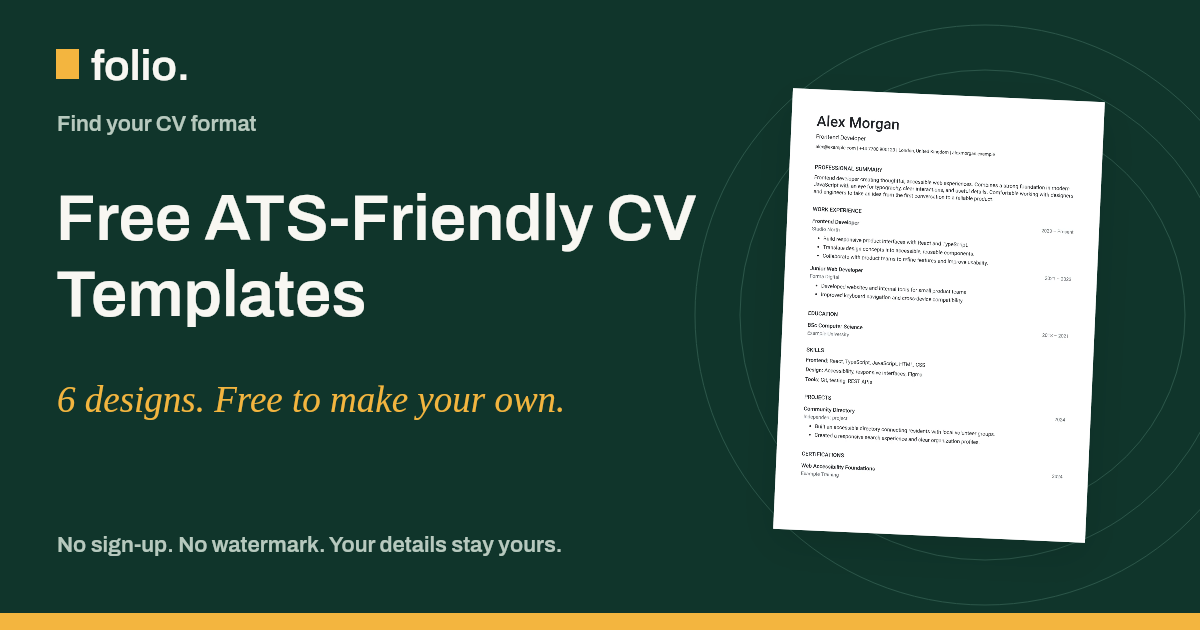
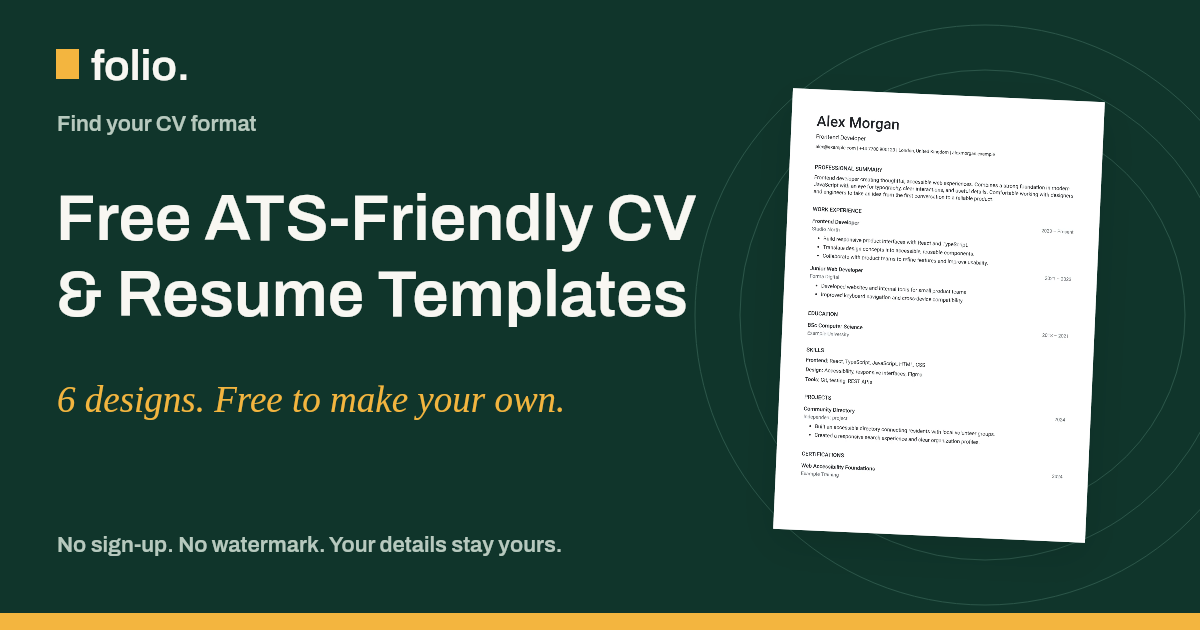
nn

Changed region(s): [[0.0308, 0.4222, 0.5858, 0.5127]]

diff --git a/src/lib/guides-country.ts b/src/lib/guides-country.ts
@@ -58,11 +58,11 @@ export const countryGuides: Guide[] = [
   {
     slug: "uk-cv-format", title: "How to write a CV for jobs in the UK", published: "2026-11-09",
     seoTitle: "UK CV Format: How to Write a CV for Jobs in the UK",
-    description: "Write a CV for UK jobs: the standard British CV format, what to include and leave out, length, right-to-work details, and student CVs with GCSEs and A levels.",
+    description: "Write a CV for UK jobs: the standard British CV format and a free template, what to leave out, length, right to work, and student CVs with GCSEs and A levels.",
     category: "Applying by country",
     intro: "A UK CV is a short, factual document, usually two A4 pages, that introduces your experience and makes it easy for an employer to shortlist you. British conventions are simple once you know them: no photo, no personal details beyond how to contact you, and a clear focus on evidence.",
     image: { kind: "example", id: "teacher", alt: "UK teacher CV example with QTS in the professional title, a short personal statement, and teaching roles listed most recent first", caption: "A fictional UK teacher CV from our CV examples, in the Classic template." },
-    tool: { href: "/editor/", label: "Start your UK CV", text: "Two A4 pages, British spelling, and no photo needed. Build your UK CV in the free editor." },
+    tool: { href: "/editor/", label: "Use the free UK CV maker", text: "Two A4 pages, British spelling, and no photo needed. Build your UK CV for free, with no sign-up or watermark." },
     sections: [
       { id: "uk-cv-structure", heading: "The standard UK CV structure", paragraphs: [
         "Most UK CVs follow the same order. Start with your name and contact details, followed by a personal statement, also called a profile. Then list your work experience, most recent first, followed by education, skills, and any other relevant sections such as certifications, volunteering, or languages.",
@@ -86,9 +86,13 @@ export const countryGuides: Guide[] = [
         "If your education or recent experience abroad might lead an employer to wonder whether you need a visa, a short line can answer the question early, for example “Full right to work in the UK” in your contact details or personal statement.",
         "If you need sponsorship, check whether the employer is a licensed sponsor before applying, and answer the application form’s questions accurately.",
       ] },
-      { id: "school-leavers-and-students", heading: "UK CVs for school leavers and students", paragraphs: [
+      { id: "school-leavers-and-students", heading: "UK CV format for students and school leavers", paragraphs: [
         "School leavers can list GCSEs and A levels, or Scottish Highers, BTECs, or T Levels, with grades, most recent first. If you have many GCSEs, summarise them on one line, for example “9 GCSEs at grades 9–5, including English and Maths”. University students and graduates can give their degree title, institution, dates, and expected or achieved classification, such as a 2:1.",
         "Part-time jobs, volunteering, the Duke of Edinburgh’s Award, sports clubs, and society roles all count as evidence. Our guide to [writing your first CV with no experience](/tips/your-first-cv/) shows how to describe them, and the [CV maker for students](/cv-maker-for-students/) starts you with an education-first layout.",
+      ] },
+      { id: "uk-cv-template", heading: "A free UK CV template to start from", paragraphs: [
+        "Any clear layout without a photo suits UK applications. In Folio’s free CV maker, the [Classic](/templates/classic/) and [Professional](/templates/professional/) templates give a traditional British look, and [Clarity](/templates/clarity/) keeps everything in one plain column for online application systems. All of them download as A4 PDFs, the standard size for UK jobs.",
+        "Start in the [free CV maker](/editor/), leave the photo out, and use British spelling. You can switch templates at any time without retyping, so it is easy to compare a traditional British CV template with a more modern one.",
       ] },
       { id: "application-forms", heading: "Application forms and supporting statements", paragraphs: [
         "Many UK public sector employers, including the NHS, local councils, and the civil service, use online application forms instead of, or as well as, a CV. These often include a supporting statement where you explain how you meet each point of the person specification. The civil service may also ask for examples against the behaviours in its Success Profiles framework.",
@@ -109,11 +113,11 @@ export const countryGuides: Guide[] = [
   {
     slug: "us-resume-format", title: "How to write an American resume", published: "2026-11-09",
     seoTitle: "US Resume Format: How to Write an American Resume",
-    description: "How to write a resume for jobs in the United States: the standard US resume format, ideal length, what to leave out, and tips for international applicants.",
+    description: "How to write a resume for US jobs: the American resume format and a free template, length, what to leave out, and tips for students and international applicants.",
     category: "Applying by country",
     intro: "An American resume is a concise, achievement-focused summary of your experience, usually one page early in your career and up to two pages for most experienced candidates. US recruiters expect quick evidence of results, a clean reverse-chronological layout, and no personal details beyond how to reach you.",
     image: { kind: "template", id: "clarity", alt: "Clarity CV template: a plain single-column layout with standard headings and no graphics, suited to US resume conventions", caption: "Clarity template, fictional sample content. Plain structure, no graphics, standard headings." },
-    tool: { href: "/resume-keyword-checker/", label: "Check your resume against a job", text: "US job adverts are often detailed and keyword-heavy. Compare your resume with the description to see what you already cover." },
+    tool: { href: "/editor/", label: "Build your US resume free", text: "A free resume builder for US jobs: one clear page, no photo, no sign-up, and no watermark. Then compare it with the job in the [resume keyword checker](/resume-keyword-checker/)." },
     sections: [
       { id: "us-resume-structure", heading: "The standard US resume format", paragraphs: [
         "The reverse-chronological resume is the most common format in the United States. It starts with your contact details and a short professional summary, then lists work experience from most recent to oldest, followed by education and skills.",
@@ -129,6 +133,10 @@ export const countryGuides: Guide[] = [
         "One page is the usual expectation for students, recent graduates, and people with a few years of experience. Two pages are common for experienced professionals. Federal government jobs advertised on USAJOBS have their own resume requirements, including what each role must show, so follow the job announcement exactly.",
         "The standard paper size in the US is Letter (8.5 × 11 inches) rather than A4. Folio currently downloads CVs as A4 PDFs. Most resumes are read on screen, where the difference is rarely noticeable, but if an employer asks for Letter size or you plan to print, check the layout first.",
       ] },
+      { id: "us-resume-for-students", heading: "US resume format for students", paragraphs: [
+        "Students and recent graduates in the US usually use a one-page resume with education near the top. List your school, your degree or expected degree, and your graduation month and year. Add your GPA if it is strong, followed by relevant coursework, honors, or a capstone project.",
+        "Campus jobs, internships, research assistant roles, volunteering, and leadership in student organizations all count as experience. Describe them with the same action-and-result bullets as any job. Our guides to [writing an internship CV](/tips/internship-cv/) and [describing projects](/tips/projects-on-a-cv/) show how.",
+      ], bullets: ["One page, with education first.", "Expected graduation month and year.", "GPA only when it strengthens the application.", "Relevant coursework, projects, or a capstone.", "Campus jobs, internships, and student organizations."] },
       { id: "achievements", heading: "Lead with achievements and numbers", paragraphs: [
         "US resumes tend to be direct about results. Start each bullet with a strong verb, say what you did, and add the outcome: how much, how many, how fast, or what changed. Use figures you can explain in an interview, and describe your share of team results honestly.",
         "If you cannot measure a result, describe its scope instead: the size of the team, the number of customers, the budget you managed, or the systems you worked with. Our guide to [describing work experience](/tips/describe-your-experience/) has more examples.",
@@ -140,6 +148,10 @@ export const countryGuides: Guide[] = [
       { id: "international-applicants", heading: "Applying from outside the US", paragraphs: [
         "If you are applying from another country, convert your document to US conventions: American spelling, one or two pages, and job titles a US reader will recognise, while staying accurate to the role you held. Give context for employers that a US reader may not know, for example “Northbridge Bank, a national retail bank with 3,000 staff”, and describe qualifications in terms of their closest US equivalent.",
         "Be clear about work authorization. If you are a US citizen or permanent resident, or already hold a visa that allows you to work, you can say so briefly. If you will need sponsorship, answer the employer’s questions accurately in the application form.",
+      ] },
+      { id: "us-resume-template", heading: "A free American resume template", paragraphs: [
+        "For US jobs, choose a simple layout that fits on one page. [Clarity](/templates/clarity/) and [Linear](/templates/linear/) use plain, single-column structures that read well on screen and in applicant tracking systems, and [Compact](/templates/compact/) fits more onto one page. Leave the photo out.",
+        "Build your resume in the [free CV maker](/editor/), which works as a free resume builder for US jobs with no sign-up or watermark. It downloads A4 PDFs; most US applications are read on screen, but check the layout if an employer asks for Letter size.",
       ] },
       { id: "summary-or-objective", heading: "Professional summary or resume objective?", paragraphs: [
         "A professional summary works best when you have relevant experience to sum up. A resume objective, which states the role you want and what you bring to it, is more useful for students, recent graduates, and career changers. Either way, keep it short and specific to the job.",
@@ -157,7 +169,7 @@ export const countryGuides: Guide[] = [
   {
     slug: "canadian-resume-format", title: "How to write a Canadian resume", published: "2026-11-09",
     seoTitle: "Canadian Resume Format: How to Write a Resume for Canada",
-    description: "Write a resume for jobs in Canada: Canadian resume format and length, what to leave out, bilingual skills, and advice for newcomers with international experience.",
+    description: "Write a resume for jobs in Canada: the Canadian resume format, length, and a free template, what to leave out, bilingual skills, and advice for newcomers.",
     category: "Applying by country",
     intro: "A Canadian resume is a focused, one- or two-page document that shows your experience and results in reverse chronological order. Its conventions are close to the American resume, with a few Canadian details: no personal information such as age or a photo, consistent Canadian spelling, and room for language skills and volunteer work.",
     image: { kind: "template", id: "professional", alt: "Professional CV template: a formal single-column layout with serif headings and fine rules, suited to a Canadian resume", caption: "Professional template, fictional sample content." },
@@ -188,7 +200,11 @@ export const countryGuides: Guide[] = [
         { heading: "Translate your qualifications", paragraphs: ["If you have had your education assessed, for example through an educational credential assessment, give the Canadian equivalent next to your qualification. For regulated professions such as nursing, engineering, or teaching, state where you are in the provincial licensing process."] },
         { heading: "Show local connections where you have them", paragraphs: ["Canadian volunteering, courses, and bridging programs all help an employer picture you in the role. If you have an open work permit or permanent residence, you can mention it briefly in your summary or contact details."] },
       ] },
-      { id: "no-experience", heading: "A Canadian resume with no experience", paragraphs: [
+      { id: "canadian-resume-template", heading: "A free Canadian resume template", paragraphs: [
+        "A clean, single-column layout suits Canadian applications, including for newcomers adapting an international CV. [Linear](/templates/linear/), [Clarity](/templates/clarity/), and [Professional](/templates/professional/) keep the structure plain and leave out the photo.",
+        "Use the [free CV maker](/editor/) as a Canadian resume builder: add your English and French levels in the Languages section, and rename the extra section to Volunteering for Canadian volunteer work. It downloads A4 PDFs, which display normally on screen; check the layout if an employer asks for Letter size.",
+      ] },
+      { id: "no-experience", heading: "A resume for jobs in Canada with no experience", paragraphs: [
         "If you are a student or new to the Canadian job market, lead with education, projects, volunteer work, and transferable skills. Part-time jobs, co-op placements, and community involvement all count.",
         "Our guide to [writing your first CV](/tips/your-first-cv/) explains how to describe them, and the [CV maker for students](/cv-maker-for-students/) starts you with an education-first layout.",
       ] },
@@ -204,7 +220,7 @@ export const countryGuides: Guide[] = [
   {
     slug: "australian-resume-format", title: "How to create an Australian resume", published: "2026-11-09",
     seoTitle: "Australian Resume Format & Writing Guide",
-    description: "Write a resume for Australian jobs: the standard format and length, referees, work rights, key selection criteria, licences, and student resumes.",
+    description: "Write a resume for Australian jobs: the standard format and a free template, length, referees, work rights, selection criteria, licences, and tips for students.",
     category: "Applying by country",
     intro: "Australian resumes tend to be a little longer and more detailed than American ones. Two to three pages is common, referees often appear at the end, and employers appreciate a clear statement of your work rights. The essentials are the same everywhere: relevant experience, clear results, and a layout that is easy to scan.",
     image: { kind: "template", id: "regent", alt: "Regent CV template: a single-column layout with a serif nameplate and a framed contact line", caption: "Regent template, fictional sample content." },
@@ -238,8 +254,12 @@ export const countryGuides: Guide[] = [
       { id: "licences-and-checks", heading: "Include licences and checks relevant to the role", paragraphs: [
         "Many Australian jobs require specific licences or checks. List the ones you hold and any expiry dates, for example a driver licence, a forklift licence, a Working with Children Check, a National Police Check, a construction White Card, or a Responsible Service of Alcohol (RSA) certificate for hospitality work. Folio’s Certifications section is the right place for them.",
       ] },
-      { id: "no-experience", heading: "An Australian resume with no experience", paragraphs: [
-        "Students and school leavers can lead with education, then part-time and casual work, volunteering, and school or university activities. Casual roles in retail and hospitality are valuable evidence of reliability and customer service.",
+      { id: "australian-resume-template", heading: "A free Australian resume template", paragraphs: [
+        "Australian resumes have room for more detail, so a layout with clear section headings helps a reader find your key skills and referees quickly. [Professional](/templates/professional/), [Regent](/templates/regent/), and [Clarity](/templates/clarity/) work well, and all download as A4 PDFs, the standard size in Australia.",
+        "In the [free CV maker](/editor/), use the Certifications section for licences and checks, and rename the Additional information section to Referees. It works as a free Australian resume builder, with no sign-up or watermark.",
+      ] },
+      { id: "no-experience", heading: "A resume for Australian jobs with no experience", paragraphs: [
+        "The Australian CV format for students follows the same structure with education first, then part-time and casual work, volunteering, and school or university activities. Casual roles in retail and hospitality are valuable evidence of reliability and customer service.",
         "See [how to write your first CV](/tips/your-first-cv/), and start with an education-first layout in the [CV maker for students](/cv-maker-for-students/).",
       ] },
     ],

diff --git a/src/lib/cv-examples.ts b/src/lib/cv-examples.ts
@@ -108,7 +108,7 @@ export const cvExamples: CVExample[] = [
   {
     slug: "software-developer", job: "Software developer", category: "Technology", template: "tech",
     seoTitle: "Software Developer & Software Engineer CV Example",
-    description: "A software developer and software engineer CV example with a grouped tech stack, results-led bullet points, and a clear profile. Edit it free as a resume or CV.",
+    description: "A software developer and software engineer CV example with a grouped tech stack and results-led bullet points. Edit it in the free resume builder.",
     intro: "Whether the role is called software developer or software engineer, engineering managers scan the CV for three things: the technologies you use, what you built with them, and how your work helped the team or product. This example groups skills by area and describes each role through shipped work.",
     person: { name: "Sam Okafor", headline: "Software Developer", location: "Manchester, United Kingdom", phone: "+44 7700 900103" },
     summary: "Software developer with five years of experience building web applications in TypeScript, React, and Node.js. Turns unclear requirements into reliable features, writes tests that catch real problems, and enjoys improving performance. Currently building a platform used by thousands of small businesses.",
@@ -149,7 +149,7 @@ export const cvExamples: CVExample[] = [
   {
     slug: "customer-service", job: "Customer service", category: "Customer service", template: "modern",
     seoTitle: "Customer Service CV Example & Resume Template",
-    description: "A customer service CV example with a profile, achievement-led bullet points, and key skills. Adapt it for call centre, retail, or online support roles.",
+    description: "A customer service CV example with achievement-led bullet points and key skills. Edit it in the free resume builder for call centre, retail, or support roles.",
     intro: "Customer service managers look for evidence that you stay patient, solve problems, and meet service targets. This example uses specific measures, such as satisfaction scores and resolution rates, to turn everyday tasks into achievements.",
     person: { name: "Chloe Bennett", headline: "Customer Service Advisor", location: "Glasgow, United Kingdom", phone: "+44 7700 900104" },
     summary: "Customer service advisor with four years of experience in contact centre and live chat support. Resolves billing and account queries on first contact, stays calm with frustrated customers, and consistently meets quality and response targets. Looking to move into a team leader role.",
@@ -266,8 +266,8 @@ export const cvExamples: CVExample[] = [
   },
   {
     slug: "administrator", job: "Administrator", category: "Office & admin", template: "ledger",
-    seoTitle: "Administrator CV Example — Free Template & Tips",
-    description: "An administrator CV example with an organised profile, office experience, and in-demand skills. Use it for admin assistant or office roles and download a PDF.",
+    seoTitle: "Administrative Assistant & Administrator CV Example",
+    description: "An administrative assistant and administrator CV example with an organised profile, office experience, and in-demand skills. Edit it free as a template.",
     intro: "Administrators keep an organisation running, so hiring managers look for organisation, accuracy, and confidence with systems. This example shows the range of tasks you handle and how you made processes faster or more reliable.",
     person: { name: "Hannah Kowalski", headline: "Office Administrator", location: "Nottingham, United Kingdom", phone: "+44 7700 900107" },
     summary: "Office administrator with five years of experience supporting busy teams in property and legal services. Manages diaries, invoices, and records accurately, keeps office systems running smoothly, and finds simple ways to save colleagues time. Advanced Microsoft 365 user.",
@@ -506,8 +506,8 @@ export const cvExamples: CVExample[] = [
   },
   {
     slug: "student", job: "Student", category: "Students & graduates", template: "student",
-    seoTitle: "Student CV Example — Free Template for No Experience",
-    description: "A student CV example for school leavers, students, and graduates with little work experience. See profiles, bullet points, and skills, then edit it free.",
+    seoTitle: "Student & Graduate CV Example (No Experience Needed)",
+    description: "A student and graduate CV example for school leavers, students, and fresh graduates with little work experience. See profiles, bullet points, and skills.",
     intro: "A student CV has to work with what you have: education, part-time work, projects, and activities. This example leads with a degree, then uses a part-time job, a society role, and a university project as real evidence of reliability, organisation, and teamwork.",
     person: { name: "Ellie Harper", headline: "Business Management Student", location: "Sheffield, United Kingdom", phone: "+44 7700 900113" },
     sectionOrder: ["summary", "education", "experience", "projects", "skills", "languages", "certifications", "additional"],
@@ -634,9 +634,9 @@ export const cvExamples: CVExample[] = [
   },
   {
     slug: "frontend-developer", job: "Frontend developer", category: "Technology", template: "monogram",
-    seoTitle: "Frontend Developer CV Example — Free Resume Template",
-    description: "A frontend developer CV example with React, TypeScript, accessibility, and performance results, plus three profile examples. Edit it free and download a PDF.",
-    intro: "A frontend CV should show the stack you build with and the quality of what you ship: accessible, fast, well-tested interfaces. This example pairs a grouped skills section with bullets that name concrete improvements in performance and accessibility.",
+    seoTitle: "Frontend & Web Developer CV Example — Free Template",
+    description: "A frontend and web developer CV example with React, TypeScript, accessibility, and performance results, plus three profile examples. Edit it free.",
+    intro: "A frontend or web developer CV should show the stack you build with and the quality of what you ship: accessible, fast, well-tested interfaces. This example pairs a grouped skills section with bullets that name concrete improvements in performance and accessibility.",
     person: { name: "Arjun Mehta", headline: "Frontend Developer", location: "Reading, United Kingdom", phone: "+44 7700 900116", website: "arjunmehta.example" },
     summary: "Frontend developer with four years of experience building accessible, responsive interfaces in React and TypeScript. Works closely with designers to turn Figma files into reusable components, and cares about performance and keyboard accessibility. Currently maintaining the design system for a SaaS product.",
     experience: [

diff --git a/src/app/resume-keyword-checker/page.tsx b/src/app/resume-keyword-checker/page.tsx
@@ -8,7 +8,7 @@ export const metadata = pageMetadata({ title: page.title, description: page.desc
 
 export default function KeywordCheckerPage() {
   return <ToolPage path={page.path} heading="Free resume keyword checker."
-    intro="Compare your resume or CV with a job description and see which keywords you already cover and which are missing. It runs entirely in your browser, so your CV and the advert are never uploaded."
+    intro="This free resume keyword matching tool compares your resume or CV with a job description and shows which keywords you already cover and which are missing. It runs entirely in your browser, so your CV and the advert are never uploaded."
     points={["Results as you type", "Reads PDF and DOCX files", "No sign-up", "Nothing uploaded"]}
     featureList={["Keyword and phrase extraction from job descriptions", "Matching and missing keywords with counts", "Share of key terms found", "Reads text from PDF and DOCX files on your device", "Uses the CV open in Folio’s editor"]}
     guide={[
@@ -20,6 +20,16 @@ export default function KeywordCheckerPage() {
       { id: "keywords-and-ats", heading: "Keywords and applicant tracking systems", paragraphs: [
         "Many employers use an applicant tracking system (ATS) to manage applications, and recruiters often search it for specific skills, tools, or qualifications. Using the advert’s own wording for things you can genuinely do makes your CV easier to find and easier to read.",
         "No outside tool can see how a particular employer’s system is set up, so this checker does not give an “ATS score”. For format advice that applies to most systems, read [how to make your CV ATS-friendly](/tips/ats-friendly-cv/), and compare the [ATS-friendly templates](/templates/category/ats-friendly/).",
+      ] },
+      { id: "check-ats-compatibility", heading: "How to check your resume’s ATS compatibility", paragraphs: [
+        "No free tool can run your resume through a particular employer’s applicant tracking system. You can still check the things that most often cause problems, in a few minutes, and keywords are only one of them.",
+        "Folio’s [ATS-friendly templates](/templates/category/ats-friendly/) cover the layout side, and the [ATS-friendly CV guide](/tips/ats-friendly-cv/) explains each point in more detail.",
+      ], bullets: [
+        "Copy and paste test: select all the text in your PDF and paste it into a plain text editor. If it reads in a sensible order, it can be parsed.",
+        "Use standard section headings such as Work experience, Education, and Skills.",
+        "Keep your name and contact details in the body of the page, not only in a header.",
+        "Send the file type the employer asks for, such as Word instead of PDF.",
+        "Compare keywords with this checker, and add missing terms only where they are true for you.",
       ] },
       { id: "use-your-results", heading: "How to use your results", paragraphs: ["Work through the missing terms from the top: the list is ordered by how prominent each term is in the advert."], bullets: [
         "Add a missing term only if it is true for you, ideally inside an experience bullet that shows how you used it.",

diff --git a/src/app/cv-maker-for-students/page.tsx b/src/app/cv-maker-for-students/page.tsx
@@ -47,7 +47,7 @@ export default function StudentCVMakerPage() {
         <p className="template-detail-kind">Students · School leavers · Graduates</p>
         <h1>Free CV maker for students and graduates.</h1>
         <p className="template-detail-description">Make your first CV in minutes, even with no work experience.</p>
-        <p>Start with an education-first layout made for students, add your projects, part-time jobs, and activities, and download a clean PDF. Built for internships, graduate jobs, apprenticeships, and your first job in the UK, US, Canada, or Australia.</p>
+        <p>A free CV maker and student resume builder with an education-first layout. Add your projects, part-time jobs, and activities, and download a clean PDF. Built for students, school leavers, and fresh graduates applying for internships, apprenticeships, and first jobs in the UK, US, Canada, or Australia.</p>
         <ul className="check-list"><li><Check size={18} />Education placed first, then projects and experience</li><li><Check size={18} />Writing guidance for every section</li><li><Check size={18} />Free PDF download, no sign-up or watermark</li></ul>
         <NewCVButton template="student" sectionOrder={STUDENT_ORDER} className="button accent large">Start my student CV</NewCVButton>
         <span className="template-detail-privacy"><LockKeyhole size={14} />Your details stay on your device.</span>
@@ -55,7 +55,7 @@ export default function StudentCVMakerPage() {
       <figure className="template-detail-example"><img src={examplePreview("student")} alt="Student CV example with education first, a part-time sales job, a society treasurer role, a university project, skills, and languages" width={953} height={1348} fetchPriority="high" /><figcaption>Fictional student CV · Student template · A4 PDF</figcaption></figure>
     </div></section>
 
-    <section className="section student-structure"><div className="container advice-grid"><h2>The best CV format for students.</h2><div>
+    <section className="section student-structure"><div className="container advice-grid"><h2>The best CV format for students with no experience.</h2><div>
       <p>Use a reverse-chronological CV with your education near the top. Employers reading a student CV look for evidence of how you work, and your course, projects, and activities are where that evidence lives. Once you have a relevant job or placement, it can move above education.</p>
       <ol className="student-order">{["Name and contact details", "A short profile or objective", "Education", "Projects", "Work experience, including part-time and volunteering", "Skills and languages", "Certificates, awards, or interests"].map((item, index) => <li key={item}><span className="step-number">{index + 1}</span>{item}</li>)}</ol>
       <p>Keep it to one page and use a simple layout with standard headings. See how it comes together in the <Link href={`/cv-examples/${example.slug}/`}>student CV example</Link>.</p>

diff --git a/src/lib/tools.ts b/src/lib/tools.ts
@@ -4,13 +4,13 @@ export const tools = [
   {
     path: "/cover-letter-maker/", name: "Cover letter maker", icon: "mail",
     title: "Free Cover Letter Maker — Professional Templates & PDF",
-    description: "Create a cover letter online for free. Fill in your details, choose a professional layout, edit every line, then copy, print, or download a PDF. No sign-up.",
+    description: "Create a cover letter online for free, with no sign-up. Our cover letter builder turns your details into a professional letter to edit and download as a PDF.",
     summary: "Turn your details into a tailored letter, edit every line, then copy, print, or download it as a PDF.",
   },
   {
     path: "/resume-keyword-checker/", name: "Resume keyword checker", icon: "search",
     title: "Free Resume Keyword Checker — Compare Your CV to a Job",
-    description: "Check your resume against a job description for free. See matching and missing keywords in seconds. It runs in your browser, so nothing is uploaded or stored.",
+    description: "Check your resume against a job description for free. See matching and missing keywords and how to check ATS compatibility. Nothing is uploaded.",
     summary: "Compare your CV with a job description and see which keywords you cover and which are missing.",
   },
   {
@@ -45,5 +45,5 @@ export const toolsHub = {
 export const studentPage = {
   path: "/cv-maker-for-students/", label: "CV maker for students",
   title: "Free CV Maker for Students & Graduates",
-  description: "Make a student CV or graduate resume for free, even with no work experience. Start from an education-first layout, follow clear guidance, and download a PDF.",
+  description: "A free student resume builder and CV maker: start from an education-first layout, follow clear guidance, and download a PDF, even with no work experience.",
 };

diff --git a/src/lib/template-collections.ts b/src/lib/template-collections.ts
@@ -9,7 +9,7 @@ interface TemplateCollection {
 
 export const templateCollections: readonly TemplateCollection[] = [
   {
-    slug: "ats-friendly", name: "ATS-friendly", title: "Free ATS-Friendly CV Templates",
+    slug: "ats-friendly", name: "ATS-friendly", title: "Free ATS-Friendly CV & Resume Templates",
     description: "Choose a plain, single-column CV for online applications. Compare free templates with standard headings and selectable PDF text, then edit and download.",
     intro: "When an employer uses an applicant tracking system, a straightforward document is a sensible starting point. These templates keep your contact details and experience in one reading order, use familiar headings, and export real, selectable text.",
     templates: ["linear", "clarity", "compact", "professional", "classic", "student"],
@@ -58,7 +58,7 @@ export const templateCollections: readonly TemplateCollection[] = [
   },
   {
     slug: "student", name: "Student & first job", title: "Free Student & Graduate CV Templates",
-    description: "Build your first CV with free student templates. Put education, coursework, projects, and volunteering first, even without paid experience. Download a PDF.",
+    description: "Simple, free student CV templates for school leavers and fresh graduates. Put education, projects, and volunteering first, even without paid experience.",
     intro: "You can write a useful first CV before your first paid role. Start with your education and the things you have made, learned, organised, or supported. These templates give early-career applicants a clear structure without pretending to have a longer work history.",
     templates: ["student", "linear", "clarity", "academic", "compact", "aurora"],
     advice: [

diff --git a/src/components/home-page.tsx b/src/components/home-page.tsx
@@ -33,7 +33,7 @@ export function HomePage() {
     <section className="section collection-section"><div className="container"><div className="section-head"><div><h2>A starting point<br /><span className="editorial-type">for every next step.</span></h2><p>Your first job, a new direction, or a more senior role. Find the format that fits.</p></div><Link href={studentPage.path} className="text-link"><GraduationCap size={17} />Making your first CV as a student? <ArrowUpRight size={16} /></Link></div><TemplateCollections /></div></section>
 
     <section className="how-section" id="how-it-works"><div className="container">
-      <div className="section-head"><div><h2>How it works.<br /><span className="editorial-type">Three simple steps.</span></h2><p>From a blank page to a finished PDF. No account, no payment, and nothing to install.</p></div><span className="section-aside">Your experience. Beautifully put together.</span></div>
+      <div className="section-head"><div><h2>How it works.<br /><span className="editorial-type">Three simple steps.</span></h2><p>From a blank page to a finished PDF, with guidance in every section, so it works for beginners too. No account, no payment, and nothing to install.</p></div><span className="section-aside">Your experience. Beautifully put together.</span></div>
       <ol className="steps">
         <li className="step">
           <div className="step-vignette" aria-hidden="true"><div className="vig-drop"><FileUp size={22} /><strong>my-cv.pdf</strong><span>Read on this device</span></div><div className="vig-found"><Check size={14} />Name, experience, education and skills found</div></div>

diff --git a/src/app/tips/[slug]/page.tsx b/src/app/tips/[slug]/page.tsx
@@ -35,7 +35,7 @@ export default async function Tip({ params }: { params: Promise<{ slug: string }
       </section>)}
       <aside className="callout"><p>{tip.takeaway}</p></aside>
       {tip.faqs && <section id="faq" className="article-faq"><h2>Frequently asked questions</h2><FaqList faqs={tip.faqs} /></section>}
-      {tip.tool && <aside className="article-tool"><div><span>Free tool</span><p>{tip.tool.text}</p></div><Link href={tip.tool.href} className="button dark">{tip.tool.label}<ArrowRight size={16} /></Link></aside>}
+      {tip.tool && <aside className="article-tool"><div><span>Free tool</span><p><RichText text={tip.tool.text} /></p></div><Link href={tip.tool.href} className="button dark">{tip.tool.label}<ArrowRight size={16} /></Link></aside>}
       <div className="article-cta"><span>A fresh page for your next chapter.</span><StartCVButton>Open the free editor</StartCVButton></div>
     </article></div><AdSlot placement="tips" />
     <section className="related-guides"><div className="container"><h2>Related guides.</h2><ul className="guide-list">{related.map(guide => <li key={guide.slug}><Link href={`/tips/${guide.slug}/`} className="guide-row"><span className="guide-meta"><span>{guide.category}</span><span>{guide.readTime} min read</span></span><h3>{guide.title}</h3><p>{guide.description}</p><ArrowUpRight className="guide-arrow" size={22} /></Link></li>)}</ul></div></section></main><Footer /></>;

diff --git a/src/app/cover-letter-maker/page.tsx b/src/app/cover-letter-maker/page.tsx
@@ -46,6 +46,7 @@ export default function CoverLetterMakerPage() {
     ]}
     faqs={[
       { question: "Is the cover letter maker really free?", answer: "Yes. Writing, editing, copying, printing, and downloading your letter as a PDF are all free, with no account, trial, or watermark." },
+      { question: "Is this a cover letter generator?", answer: "It works like a cover letter generator, without AI. It fills predefined letter templates with your details, so every sentence comes from a fixed template or from your own words. You can edit the result line by line, and no sign-up is needed." },
       { question: "Does the cover letter maker use AI?", answer: "No. It combines your details with predefined paragraph templates using simple text formatting in your browser. Nothing is sent to an AI service, and you can edit every line." },
       { question: "Can I download my cover letter as a PDF or Word file?", answer: "You can download a PDF with selectable text in A4 or US Letter size, print it, or copy the text into Word, an email, or an online application form." },
       { question: "Is my cover letter saved or uploaded?", answer: "Nothing is uploaded. The letter stays in this tab unless you choose “Save in this browser”, which keeps a copy on this device only. You can delete it at any time." },

diff --git a/src/lib/guides-early-career.ts b/src/lib/guides-early-career.ts
@@ -61,7 +61,7 @@ export const earlyCareerGuides: Guide[] = [
   {
     slug: "internship-cv", title: "How to write a CV for an internship", published: "2026-11-09",
     seoTitle: "How to Write an Internship CV (With Examples)",
-    description: "Write an internship CV that works with little experience: the best structure, a short objective, coursework and projects as evidence, and tips by field.",
+    description: "Write an internship CV or resume that works with little experience: the best structure, a short objective, coursework and projects, and tips by field.",
     category: "Students & first applications",
     intro: "An internship CV is read differently from a CV for an experienced role. Recruiters know you are early in your career, so they look for potential: a genuine interest in the field, evidence that you can learn quickly, and the basic skills to contribute from the first week. Your education, projects, and activities are where that evidence lives.",
     image: { kind: "template", id: "student", alt: "Student CV template with clear section bands and a centred serif name, a single-column layout suited to internship applications", caption: "Student template, fictional sample content." },

diff --git a/src/lib/seo.ts b/src/lib/seo.ts
@@ -8,7 +8,7 @@ const dateLabel = new Intl.DateTimeFormat("en-GB", { day: "numeric", month: "lon
 /** "9 November 2026" for an ISO date. */
 export function formatDate(iso: string): string { return dateLabel.format(new Date(`${iso}T00:00:00Z`)); }
 export const CONTENT_UPDATED_LABEL = formatDate(CONTENT_UPDATED);
-export const DEFAULT_DESCRIPTION = `Create a professional CV online for free with ${templates.length} templates. Import a PDF or DOCX, edit your details, and download a PDF. No sign-up, no watermark.`;
+export const DEFAULT_DESCRIPTION = `Create a professional CV online for free with ${templates.length} templates. Import a PDF or DOCX, edit your details, and download a PDF. No sign-up, payment, or watermark.`;
 
 function configuredOrigin(): string | undefined {
   const configured = process.env.NEXT_PUBLIC_SITE_URL?.trim();

diff --git a/src/app/tools.css b/src/app/tools.css
@@ -237,6 +237,7 @@
 .article-tool { display: flex; align-items: center; justify-content: space-between; gap: 20px; margin: 32px 0 0; padding: 22px 24px; border-radius: 14px; background: var(--desk); color: var(--on-desk); --focus: var(--marigold); }
 .article-tool span { font-size: 13px; font-weight: 650; color: var(--marigold); }
 .article .article-tool p { margin: 4px 0 0; font-size: 16px; line-height: 1.55; color: var(--on-desk); }
+.article .article-tool p a { color: var(--marigold); text-decoration-color: rgb(243 181 63 / .5); }
 .article-tool .button.dark { flex-shrink: 0; background: var(--marigold); color: var(--ink); }
 .article-tool .button.dark:hover { background: var(--marigold-hover); }
 .guide-jump { display: flex; flex-wrap: wrap; gap: 8px; margin-top: 28px; }
